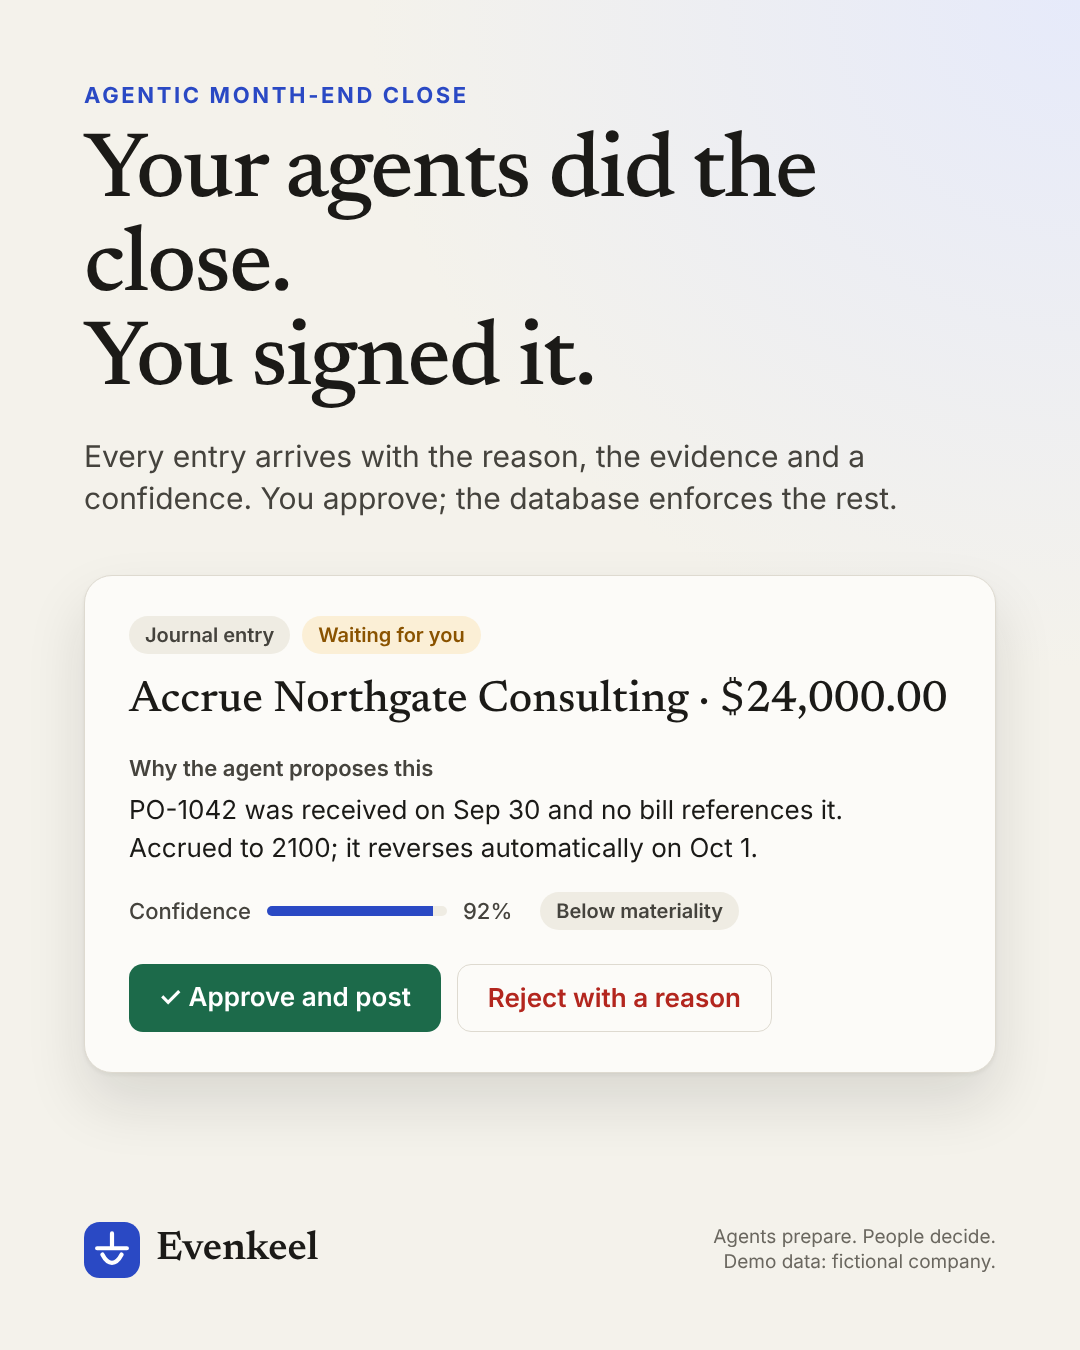
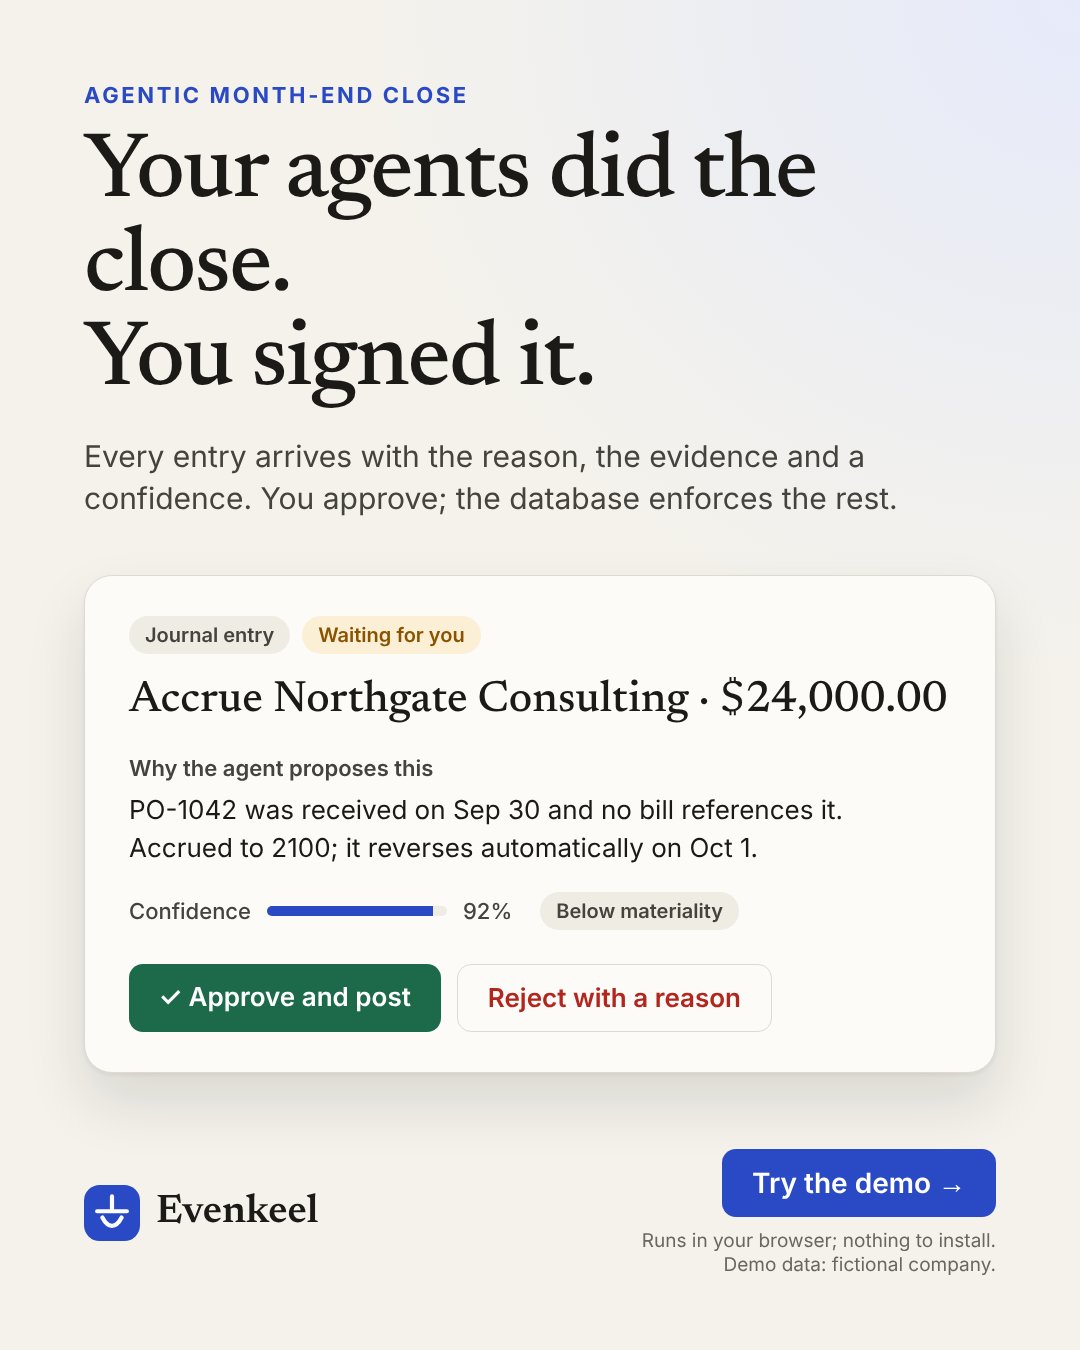
Evenkeel: ads say what the demo does and end with a call to action; README demo script
E-9. Ad 3 showed "Coding · Office supplies $450.00 — Posted automatically",
but that $450 purchase is the Brightleaf gift cards, which the demo holds
under the policy rule "Never auto-post when memo contains 'gift'". It now
shows a coding that really posts on its own ($167.83 of office supplies),
the gift cards held by the rule, and the payroll accrual at its corrected
amount ($620,727.20, held as material; was $682,799.93 before the payroll
fix). Ad 2 quoted variances (−92.7%, −49.7%, +137.2%) that never appear in
the demo's flux review, which runs after the accruals are decided; it now
shows the demo's US prior-month lines. All three ads end with a "Try the
demo" call to action.

README: the demo script follows the real path (who approves whose work,
"Select all" leaving out flagged items, continuing the close, refreshing
and signing the package), and notes that Admin sets entity access.

Regression tests: tests/unit/ads.test.ts (re-derives each quoted figure
from the demo scenario).

Claude-Session: https://claude.ai/code/session_018ci7XKj3zAn7QmF2JVSqaJ

Changed region(s): [[0.6111, 0.84, 0.9472, 0.9644], [0.0611, 0.8711, 0.3056, 0.9644]]

diff --git a/agentic-close/evenkeel/scripts/render-ads.ts b/agentic-close/evenkeel/scripts/render-ads.ts
@@ -1,7 +1,8 @@
 /*
  * `npm run ads`: render the social ad creatives (1080×1350, 4:5) into docs/ads/ with Playwright.
  * Original copy and artwork in Evenkeel's own brand; the product details shown are the
- * fictional Kitewell Labs demo. Uses the Playwright Chromium already installed.
+ * fictional Kitewell Labs demo, as it behaves (figures from the demo's September close).
+ * Uses the Playwright Chromium already installed.
  */
 import { readFileSync, mkdirSync, statSync } from 'node:fs';
 import { join } from 'node:path';
@@ -31,6 +32,8 @@ h1 { font: 500 92px/1.02 News; letter-spacing: -.02em; margin-top: 22px; }
 .foot { margin-top: auto; display: flex; align-items: center; justify-content: space-between; }
 .brand { display: flex; align-items: center; gap: 16px; font: 600 40px/1 News; }
 .fine { font: 400 19px/1.3 Inter; color: #6a675f; text-align: right; }
+.cta-wrap { display: flex; flex-direction: column; align-items: flex-end; gap: 12px; }
+.cta { background: #2a49c4; color: #fff; font: 600 28px/1 Inter; padding: 20px 30px; border-radius: 14px; }
 .badge { display: inline-block; font: 600 20px/1 Inter; padding: 9px 16px; border-radius: 99px; }
 .b-warn { background: #fbefd6; color: #8a5300; } .b-good { background: #e2f0e8; color: #1c6a4a; } .b-acc { background: #e6eafa; color: #2a49c4; } .b-bad { background: #fae8e6; color: #b3261e; } .b-mute { background: #efece3; color: #45433d; }
 .mono { font-family: Mono, monospace; }
@@ -38,7 +41,8 @@ h1 { font: 500 92px/1.02 News; letter-spacing: -.02em; margin-top: 22px; }
 
 const page = (body: string, extra = '') => `<!doctype html><html lang="en"><head><meta charset="utf-8"><style>${BASE_CSS}${extra}</style></head><body>${body}</body></html>`;
 
-const FOOT = (fine: string) => `<div class="foot"><div class="brand">${MARK}<span>Evenkeel</span></div><div class="fine">${fine}</div></div>`;
+/** Brand, call to action and fine print. */
+const FOOT = (fine: string) => `<div class="foot"><div class="brand">${MARK}<span>Evenkeel</span></div><div class="cta-wrap"><span class="cta">Try the demo →</span><div class="fine">${fine}</div></div></div>`;
 
 const ADS: { file: string; html: string }[] = [
   {
@@ -59,7 +63,7 @@ const ADS: { file: string; html: string }[] = [
             <span style="border:1.5px solid #dedad0;color:#b3261e;font:600 26px/1 Inter;padding:20px 30px;border-radius:14px">Reject with a reason</span>
           </div>
         </div>
-        ${FOOT('Agents prepare. People decide.<br/>Demo data: fictional company.')}
+        ${FOOT('Runs in your browser; nothing to install.<br/>Demo data: fictional company.')}
       </div>`,
       'body{background: radial-gradient(120% 90% at 100% 0%, #e6eafa 0%, #f4f2eb 55%);}',
     ),
@@ -73,10 +77,10 @@ const ADS: { file: string; html: string }[] = [
         <p class="sub" style="color:#d0cdc4">Material variances get an explanation that someone other than its author approves, before the month can lock.</p>
         <div class="card" style="margin-top:56px;background:#1a1b18;border-color:#2f302b;color:#f0eee8;padding:16px 0">
           ${[
-            ['5000 Cloud hosting', '−92.7%', 'Explained', 'b-good', 'September bill not in yet; the agent proposed a $161,402 accrual.'],
-            ['6000 Salaries &amp; wages', '−49.7%', 'Explained', 'b-good', 'Second September payroll unpaid at month end; accrual proposed.'],
-            ['6400 Marketing', '+137.2%', 'Needs approval', 'b-warn', 'Summit 2026 sponsorship ($95,000) and a larger ads campaign.'],
-            ['4000 Subscription revenue', '+3.7%', 'Not required', 'b-mute', 'Below the $25,000 and 10% threshold.'],
+            ['6400 Marketing', '+230.5%', 'Approved', 'b-good', 'Brightstage Events sponsorship ($95,000, one-time) and an ads accrual explain 99% of the $116,706 rise.'],
+            ['5000 Cloud hosting', '+9.4%', 'Not required', 'b-mute', 'The September bill had not arrived; the agent accrued $161,402 first.'],
+            ['6000 Salaries &amp; wages', '+0.5%', 'Not required', 'b-mute', 'Payroll earned but unpaid at month end was accrued ($620,727).'],
+            ['4000 Subscription revenue', '+0.8%', 'Not required', 'b-mute', 'Below the $25,000 and 10% threshold.'],
           ]
             .map(
               ([acct, pct, status, tone, why], i) => `<div style="padding:26px 44px;${i ? 'border-top:1.5px solid #2f302b;' : ''}">
@@ -97,8 +101,8 @@ const ADS: { file: string; html: string }[] = [
       `<div class="pad">
         <div class="eyebrow">Autonomy with ceilings</div>
         <h1>Nothing posts above your policy without a person.</h1>
-        <p class="sub">Set each skill from “suggest only” to “post and review after”. Material items always wait for a controller.</p>
-        <div style="display:grid;grid-template-columns:repeat(4,1fr);gap:16px;margin-top:52px">
+        <p class="sub">Set each skill from “suggest only” to “post and review after”. Your rules and materiality still hold items for a person.</p>
+        <div style="display:grid;grid-template-columns:repeat(4,1fr);gap:16px;margin-top:40px">
           ${[
             ['L0', 'Suggest only', false],
             ['L1', 'Approve each', false],
@@ -108,10 +112,13 @@ const ADS: { file: string; html: string }[] = [
             .map(([lvl, label, on]) => `<div class="card" style="padding:26px 24px;${on ? 'border:3px solid #2a49c4;background:#fcfbf8' : 'box-shadow:none'}"><div style="font:500 44px/1 News;color:${on ? '#2a49c4' : '#6a675f'}">${lvl}</div><div style="font:600 22px/1.3 Inter;margin-top:12px;color:${on ? '#1b1a17' : '#45433d'}">${label}</div></div>`)
             .join('')}
         </div>
-        <div class="card" style="margin-top:28px;display:flex;flex-direction:column;gap:18px">
-          <div style="display:flex;justify-content:space-between;align-items:center"><span style="font:600 27px/1.2 Inter">Coding · Office supplies $450.00</span><span class="badge b-good">Posted automatically</span></div>
+        <div class="card" style="margin-top:24px;display:flex;flex-direction:column;gap:13px;padding:32px 44px">
+          <div style="display:flex;justify-content:space-between;align-items:center"><span style="font:600 27px/1.2 Inter">Coding · Office supplies $167.83</span><span class="badge b-good">Posted automatically</span></div>
           <div style="height:1.5px;background:#dedad0"></div>
-          <div style="display:flex;justify-content:space-between;align-items:center"><span style="font:600 27px/1.2 Inter">Payroll accrual · $682,799.93</span><span class="badge b-bad">Held: material</span></div>
+          <div style="display:flex;justify-content:space-between;align-items:center"><span style="font:600 27px/1.2 Inter">Coding · Gift cards $450.00</span><span class="badge b-warn">Held: your rule</span></div>
+          <div style="font:400 23px/1.4 Inter;color:#45433d">Your policy, in plain English: “Never auto-post when memo contains ‘gift’.”</div>
+          <div style="height:1.5px;background:#dedad0"></div>
+          <div style="display:flex;justify-content:space-between;align-items:center"><span style="font:600 27px/1.2 Inter">Payroll accrual · $620,727.20</span><span class="badge b-bad">Held: material</span></div>
           <div style="font:400 23px/1.4 Inter;color:#45433d">At or above performance materiality: needs a controller or CFO, whatever the autonomy level.</div>
         </div>
         ${FOOT('Every decision in a hash-chained audit trail.<br/>Demo data: fictional company.')}

diff --git a/agentic-close/evenkeel/tests/unit/ads.test.ts b/agentic-close/evenkeel/tests/unit/ads.test.ts
@@ -1,0 +1,50 @@
+import { readFileSync } from 'node:fs';
+import { describe, expect, it } from 'vitest';
+import { formatMoney } from '../../src/framework/util/money';
+import { makeContext } from '../../src/packs/accounting/domain/context';
+import { loadActor } from '../../src/packs/accounting/domain/rbac';
+import { runFullClose } from '../../src/packs/accounting/evals/close-run';
+import { SCENARIO } from '../../src/packs/accounting/seed/scenario';
+import { fluxView } from '../../src/packs/accounting/services/flux';
+import { fromRoot } from '../../src/server/paths';
+import { loadSkillsFromDisk } from '../../src/server/skills-fs';
+
+/** The social ads (scripts/render-ads.ts) quote the demo; these checks keep them true to it. */
+
+const ads = readFileSync(fromRoot('scripts', 'render-ads.ts'), 'utf8');
+const pct = (x: number) => `${x >= 0 ? '+' : '−'}${Math.abs(x * 100).toFixed(1)}%`;
+
+describe('ad copy', () => {
+  it('E-9: every ad ends with a call to action', () => {
+    const footers = ads.match(/\$\{FOOT\(/g) ?? [];
+    expect(footers).toHaveLength(3);
+    expect(ads).toMatch(/const FOOT = [^\n]*class="cta">Try the demo/);
+  });
+
+  it('E-9: what the ads say posted or was held is what the demo does', async () => {
+    const r = await runFullClose({ skills: loadSkillsFromDisk(), through: 'proposals' });
+    const proposal = (title: string) => r.proposals.find((p) => p.title.startsWith(title))!;
+    // Ad 3: a routine office-supplies coding posts on its own; the gift cards wait under the policy rule.
+    const supplies = proposal('Paper Lantern Office Supply $167.83');
+    expect(supplies.status).toBe('auto_applied');
+    expect(ads).toContain('Office supplies $167.83</span><span class="badge b-good">Posted automatically');
+    const gifts = proposal('Brightleaf Gift Co. $450.00');
+    expect(gifts.status).not.toBe('auto_applied');
+    expect(JSON.stringify(gifts.verification)).toMatch(/Never auto-post when memo contains/);
+    expect(ads).toContain('Gift cards $450.00</span><span class="badge b-warn">Held: your rule');
+    expect(ads).not.toMatch(/\$450\.00<\/span><span class="badge b-good">Posted automatically/);
+    // Ad 3 and ad 2: the payroll accrual, held as material, and the cloud-hosting accrual.
+    const payroll = proposal('Accrue Kitewell US');
+    expect(payroll.materiality).toBe('material');
+    expect(ads).toContain(`Payroll accrual · ${formatMoney(payroll.amount!)}`);
+    expect(ads).toContain(`(${formatMoney(payroll.amount!, 'USD', { whole: true })})`);
+    expect(ads).toContain(`accrued ${formatMoney(proposal('Accrue Nimbus Cloud Services').amount!, 'USD', { whole: true })}`);
+    // Ad 2: the US variances against the prior month, once the agents' work is decided.
+    const casey = makeContext(r.db, r.info.tenantId, await loadActor(r.db, r.info.tenantId, r.info.users.casey), r.clock);
+    const flux = await fluxView(casey, { entityCode: 'US', periodKey: SCENARIO.openPeriod, comparison: 'prior_month' });
+    const line = (code: string) => flux.lines.find((l) => l.code === code)!;
+    expect(line('6400')).toMatchObject({ material: true, explanation: { status: 'approved' } });
+    for (const code of ['5000', '6000', '4000']) expect(line(code).material).toBe(false);
+    for (const code of ['6400', '5000', '6000', '4000']) expect(ads).toMatch(new RegExp(`\\['${code} [^\\]]*'${pct(line(code).variancePct!).replace('+', '\\+')}'`));
+  }, 120_000);
+});

diff --git a/agentic-close/evenkeel/README.md b/agentic-close/evenkeel/README.md
@@ -56,7 +56,7 @@ Each account gets a strong random password at seed time. It is printed once in t
 | miguel@kitewell.example | FP&A Analyst | Explains variances |
 | dana@kitewell.example | AP Specialist | Accounts payable |
 | alex@auditfirm.example | External Auditor | Read-only, everything |
-| taylor@kitewell.example | IT Administrator | Users, roles, segregation of duties |
+| taylor@kitewell.example | IT Administrator | Users, roles and the entities they cover, segregation of duties |
 
 ### The five-minute demo script
 
@@ -70,13 +70,15 @@ Each account gets a strong random password at seed time. It is printed once in t
    - an intercompany mismatch;
    - a bank memo that tries to instruct the agent.
 3. **Review and approve.** Each proposal in the Inbox shows the reason, confidence, evidence, deterministic checks and the exact lines.
-   - Bulk-approve the routine items, and reject one with a reason.
-   - Nobody approves work an agent prepared on their behalf: the reversal drafted for Priya waits for Casey. Material items need a controller or CFO.
+   - Bulk-approve the routine items, and reject one with a reason. *Select all* leaves out flagged and low-confidence items: open each one and approve it on its own.
+   - Nobody approves a run they started or work an agent prepared for them. Casey started the agents, so their proposals wait for Priya, or for Jordan where Priya owns the task. Material items need a controller or CFO.
+   - When approvals unblock the next tasks, Casey's My close says *Continue the close*.
 4. **Certify and review the reconciliations.**
    - Sam certifies the reconciliations that tie to zero; Priya reviews them.
    - In Flux review, the agent drafts explanations; someone other than the author approves them.
 5. **Disposition the exceptions, then sign and lock.**
-   - Generate the close package; Jordan approves it (its numbers are hashed).
+   - Jordan approves the close-package agent's draft from his Inbox.
+   - When the reviews are done, his My close says *Refresh and sign the close package*. The draft shows the close as it was when the agent prepared it, so he refreshes it and signs the current version. Its figures and the close status (reconciliation sign-offs, the checklist, exceptions) are hashed.
    - Casey locks September. The ledger now refuses any posting dated in it.
    - The Audit log verifies the hash chain end to end.
 
@@ -174,7 +176,7 @@ sequenceDiagram
   - HMAC CSRF tokens plus Origin checks; token-bucket rate limits.
   - TOTP two-step with replay protection; AES-GCM-sealed secrets.
   - A strict CSP.
-  - RBAC with eight roles and entity scoping.
+  - RBAC with eight roles and entity scoping, set per person in Admin and enforced on every read and change.
   - An OIDC/SAML provider seam.
   - Every mutation audited.
 - **Web:**
